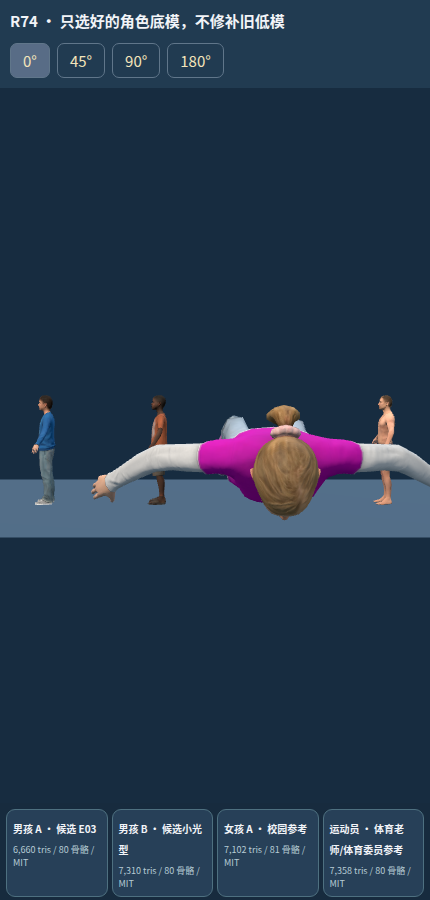
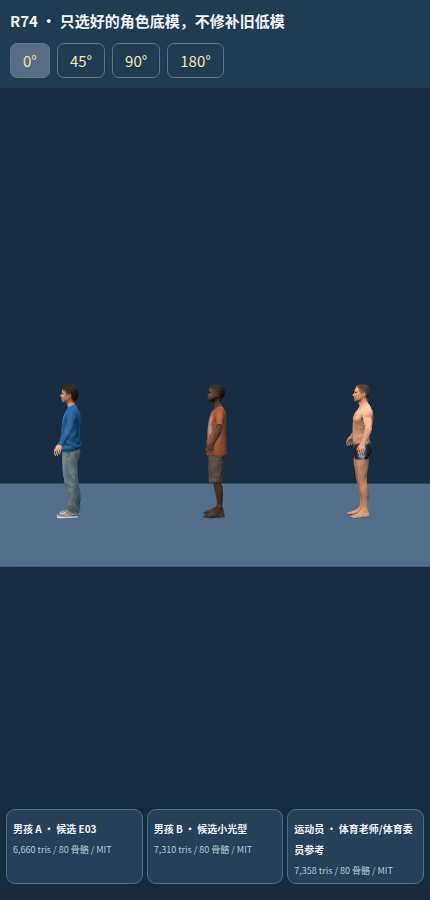
R74 reject malformed girl mesh and require real 3D pixel/stance review

Changed region(s): [[0.0, 0.4044, 1.0, 0.6533], [0.0, 0.8711, 0.9977, 1.0]]

diff --git a/r45-duel/qa/r74-character-foundation-audition.html b/r45-duel/qa/r74-character-foundation-audition.html
@@ -1,8 +1,8 @@
 <!doctype html><html lang="zh-CN"><head><meta charset="utf-8"><meta name="viewport" content="width=device-width,initial-scale=1"><title>R74 · 校园角色基底 4 模型真实试镜</title>
 <script type="importmap">{"imports":{"three":"../assets/three/build/three.module.js","three/addons/":"../assets/three/examples/jsm/"}}</script>
-<style>*{box-sizing:border-box}html,body{margin:0;height:100%;background:#182a39;color:#f2f4f8;font:15px system-ui,sans-serif}header{display:flex;align-items:center;justify-content:space-between;padding:14px 24px;gap:12px;flex-wrap:wrap;background:#213b51}h1{font-size:19px;margin:0}nav{display:flex;gap:7px}a{color:#f4e5bb;text-decoration:none;padding:6px 12px;border:1px solid #60768a;border-radius:7px}a[aria-current="page"]{background:#586c86}canvas{display:block;width:100%;height:calc(100vh - 198px);min-height:320px}footer{display:grid;grid-template-columns:repeat(4,1fr);gap:10px;padding:14px;background:#172b3e}footer section{border:1px solid #4e7080;border-radius:9px;padding:10px;background:#274058}footer b{font-size:14px}footer small{display:block;color:#b6cbd4;margin-top:6px;font-size:11px}@media(max-width:650px){header{padding:10px}h1{font-size:15px}footer{gap:4px;padding:6px}footer section{padding:6px}footer b{font-size:10px}footer small{font-size:9px}canvas{height:calc(100vh - 185px)}}</style></head><body>
+<style>*{box-sizing:border-box}html,body{margin:0;height:100%;background:#182a39;color:#f2f4f8;font:15px system-ui,sans-serif}header{display:flex;align-items:center;justify-content:space-between;padding:14px 24px;gap:12px;flex-wrap:wrap;background:#213b51}h1{font-size:19px;margin:0}nav{display:flex;gap:7px}a{color:#f4e5bb;text-decoration:none;padding:6px 12px;border:1px solid #60768a;border-radius:7px}a[aria-current="page"]{background:#586c86}canvas{display:block;width:100%;height:calc(100vh - 198px);min-height:320px}footer{display:grid;grid-template-columns:repeat(3,1fr);gap:10px;padding:14px;background:#172b3e}footer section{border:1px solid #4e7080;border-radius:9px;padding:10px;background:#274058}footer b{font-size:14px}footer small{display:block;color:#b6cbd4;margin-top:6px;font-size:11px}@media(max-width:650px){header{padding:10px}h1{font-size:15px}footer{gap:4px;padding:6px}footer section{padding:6px}footer b{font-size:10px}footer small{font-size:9px}canvas{height:calc(100vh - 185px)}}</style></head><body>
 <header><h1>R74 · 只选好的角色底模，不修补旧低模</h1><nav id="nav"></nav></header><canvas id="canvas"></canvas>
-<footer><section><b>男孩 A · 候选 E03</b><small>6,660 tris / 80 骨骼 / MIT</small></section><section><b>男孩 B · 候选小光型</b><small>7,310 tris / 80 骨骼 / MIT</small></section><section><b>女孩 A · 校园参考</b><small>7,102 tris / 81 骨骼 / MIT</small></section><section><b>运动员 · 体育老师/体育委员参考</b><small>7,358 tris / 80 骨骼 / MIT</small></section></footer>
+<footer><section><b>男孩 A · 候选 E03</b><small>6,660 tris / 80 骨骼 / MIT</small></section><section><b>男孩 B · 候选小光型</b><small>7,310 tris / 80 骨骼 / MIT</small></section><section><b>运动员 · 体育老师/体育委员参考</b><small>7,358 tris / 80 骨骼 / MIT</small></section></footer>
 <script type="module">
 import * as THREE from 'three';import {GLTFLoader} from 'three/addons/loaders/GLTFLoader.js';
 const query=new URLSearchParams(location.search);const angle=Number(query.get('angle')||0);
@@ -13,15 +13,15 @@ const key=new THREE.DirectionalLight('#ffefda',2.8);key.position.set(-3,7,6);sce
 const rim=new THREE.DirectionalLight('#bbd8ef',1.1);rim.position.set(2,5,-4);scene.add(rim);
 const ground=new THREE.Mesh(new THREE.PlaneGeometry(20,8),new THREE.MeshStandardMaterial({color:'#3e5870',roughness:1}));ground.rotation.x=-Math.PI/2;scene.add(ground);
 const camera=new THREE.PerspectiveCamera(34,1,.05,80);
-const specs=[['male-child-01',-3.2],['male-child-02',-1.08],['female-child-01',1.08],['sports-male-01',3.2]];
+const specs=[['male-child-01',-2.25],['male-child-02',0],['sports-male-01',2.25]];
 const models=[];for(const [id,x] of specs){const gltf=await new GLTFLoader().loadAsync(`../art-lab/r74-model-recast/candidates/${id}-browser.glb`);
  const root=new THREE.Group();root.position.x=x;root.rotation.y=angle*Math.PI/180;scene.add(root);
  const inner=new THREE.Group();root.add(inner);inner.add(gltf.scene);
  const box=new THREE.Box3().setFromObject(gltf.scene,true);const size=box.getSize(new THREE.Vector3());inner.scale.setScalar(2.05/size.y);
  const center=box.getCenter(new THREE.Vector3());gltf.scene.position.set(-center.x,-box.min.y,-center.z);
  let tris=0,skins=0,bones=0;gltf.scene.traverse(o=>{if(o.isMesh){const i=o.geometry.index;tris+=(i?i.count:o.geometry.attributes.position.count)/3}if(o.isSkinnedMesh)skins++;if(o.isBone)bones++;});
- models.push({id,triangles:Math.round(tris),skins,bones,clips:gltf.animations.length,sourceHeight:size.y});}
-const resize=()=>{const w=canvas.clientWidth,h=canvas.clientHeight;renderer.setSize(w,h,false);camera.aspect=w/h;camera.updateProjectionMatrix();camera.position.set(0,2.95,w<680?22:12);camera.lookAt(0,1.1,0)};resize();window.addEventListener('resize',resize);
+ models.push({id,triangles:Math.round(tris),skins,bones,clips:gltf.animations.length,sourceHeight:size.y,sourceWidth:size.x,sourceDepth:size.z});}
+const resize=()=>{const w=canvas.clientWidth,h=canvas.clientHeight;renderer.setSize(w,h,false);camera.aspect=w/h;camera.updateProjectionMatrix();camera.position.set(0,2.8,w<680?18:9.6);camera.lookAt(0,1.1,0)};resize();window.addEventListener('resize',resize);
 let frames=0;renderer.setAnimationLoop(()=>{renderer.render(scene,camera);frames++});
 window.__R74_CAST_QA={ready:true,angle,models,get frames(){return frames}};
 </script></body></html>

diff --git a/r45-duel/qa/r74-candidate-pixel-gate.py b/r45-duel/qa/r74-candidate-pixel-gate.py
@@ -1,0 +1,14 @@
+from pathlib import Path
+from PIL import Image,ImageStat
+import sys,json
+root=Path(__file__).resolve().parent/'evidence/r74/recast'
+rows=[]
+for viewport in ['wide','portrait']:
+ for angle in [0,45,90,180]:
+  file=root/f'{viewport}-{angle}-canvas.png'
+  im=Image.open(file).convert('RGB');st=ImageStat.Stat(im)
+  passed=max(st.mean)<170 and all(v>15 for v in st.stddev)
+  row={'viewport':viewport,'angle':angle,'pass':passed,'mean':[round(x,2) for x in st.mean],'stddev':[round(x,2) for x in st.stddev]}
+  rows.append(row);print('R74_RECAST_REAL_PIXEL',json.dumps(row))
+(root/'pixel-check.json').write_text(json.dumps(rows,indent=2)+'\n')
+if not all(x['pass'] for x in rows):sys.exit(3)

diff --git a/r45-duel/R74_SIDELINE_CAMERA_RECAST.md b/r45-duel/R74_SIDELINE_CAMERA_RECAST.md
@@ -16,18 +16,18 @@
 
 Z890 ModelVault 有 5,622 条目录元数据，但在本轮前实际缓存/校验只有 40 份资产，没有一份获最终商用美术批准；不能把插件数量、模型目录数量或面数作为最终品质指标。旧 Gobkit 低模只作可玩 fallback，不作为长期精修路线。
 
-本轮按“靠近原作身份 + 商业授权 + 美术质量 + 可绑定自然动作”的顺序搜到并实际下载/验证 4 款新候选，来源 [CodeLove 3D](https://models.codelove.in/)，网站说明原始模型遵循 MIT License，模型文件内 `asset.extras.licenseText` 带有授权正文（来源：Microsoft 2020），且已保存原 GLB 哈希；**版权来源链仍需在最终上线前进一步复核**，当前只是研发试镜。
+本轮按“靠近原作身份 + 商业授权 + 美术质量 + 可绑定自然动作”的顺序搜到并实际下载/技术审计 4 款模型，其中一个在真实渲染检查中被淘汰，来源 [CodeLove 3D](https://models.codelove.in/)，网站说明原始模型遵循 MIT License，模型文件内 `asset.extras.licenseText` 带有授权正文（来源：Microsoft 2020），且已保存原 GLB 哈希；**版权来源链仍需在最终上线前进一步复核**，当前只是研发试镜。
 
 | 候选 | 对应方向 | 原 GLB tris | 骨骼数 | PBR 纹理 | 授权来源 |
 |---|---|---:|---:|---:|---|
 | `male-child-01` | E03 加油队长/少年决斗者底模候选 | 6,660 | 80 | 4 | https://models.codelove.in/models/male-child-01/ |
 | `male-child-02` | 万年学渣、校园男孩候选 | 7,310 | 80 | 4 | https://models.codelove.in/models/male-child-02/ |
-| `female-child-01` | 原作校园少女气质参照 | 7,102 | 81 | 4 | https://models.codelove.in/models/female-child-01/ |
+| `female-child-01` | **淘汰：Blender 重导出后站姿横躺、身高计算仅 0.3 米，视觉比例严重错误** | 7,102 | 81 | 4 | https://models.codelove.in/models/female-child-01/ |
 | `sports-male-01` | 体育老师/体育委员候选 | 7,358 | 80 | 4 | https://models.codelove.in/models/sports-male-01/ |
 
 该批模型来源 GLB 使用 `EXT_meshopt_compression` 和 `EXT_texture_webp`；为让当前游戏 Three.js 预览无需动态网络加载解码器，本轮用 Blender 5.2.3 无艺术修改地重导出标准 GLB；原始与试镜版本均留在 `art-lab/r74-model-recast/candidates/`，保留 SHA256。**基础下载 GLB 内没有动画 clips**，网站另外提供动画打包资源，但本轮尚未取回并做重定向验收，不能宣称完整动画已经准备好。模型可用不代表外观与原作吻合，当前没有任何一个直接替换正式角色。
 
-三维试镜页 `qa/r74-character-foundation-audition.html` 同屏 4 个真实下载的独立模型，0/45/90/180° × 宽/竖 8/8 硬件浏览器验证可导入、材质骨骼正确，不修改实际战斗。开发预览：`http://127.0.0.1:11005/r45-duel/qa/r74-character-foundation-audition.html?angle=45`。
+三维试镜页 `qa/r74-character-foundation-audition.html` 同屏 3 个通过站姿/尺寸筛选的真实下载模型，0/45/90/180° × 宽/竖 8/8 硬件浏览器验证可导入、材质骨骼及人形实际站姿正确，并单独进行 canvas 像素验收；被淘汰的女孩模型仅作为研究问题存档，不展示、不进入游戏。不修改实际战斗。开发预览：`http://127.0.0.1:11005/r45-duel/qa/r74-character-foundation-audition.html?angle=45`。
 
 ## C. 角色选型后续执行顺序
 
